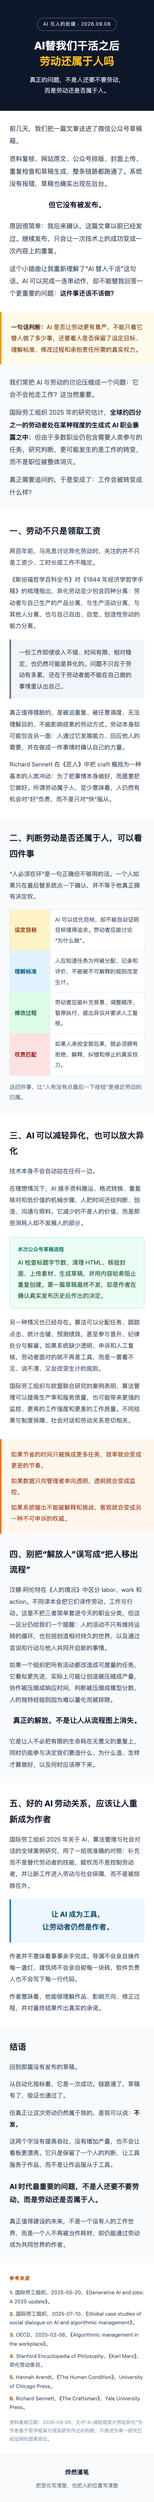
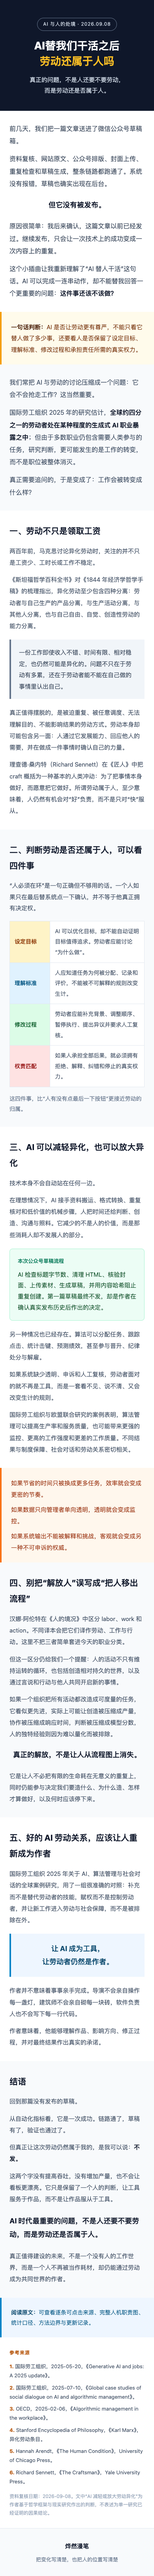
fix: 完善劳动主题文章阅读原文提示

Changed region(s): [[0.0615, 0.0, 0.9231, 0.997], [0.0, 0.8724, 0.0308, 0.9035]]

diff --git a/articles/ai/2026-09-08_ai-labor-belongs-to-us/article-wechat.html b/articles/ai/2026-09-08_ai-labor-belongs-to-us/article-wechat.html
@@ -41,7 +41,7 @@
     <p style="font-size:15px;color:#334155;line-height:1.9;margin:0">一份工作即使收入不错、时间有限、相对稳定，也仍然可能是异化的。问题不只在于劳动有多累，还在于劳动者能不能在自己做的事情里认出自己。</p>
   </section>
   <p style="font-size:15px;color:#475569;line-height:1.95;margin:0 0 14px 0">真正值得摆脱的，是被迫重复、被任意调度、无法理解目的、不能影响结果的劳动方式。劳动本身却可能包含另一面：人通过它发展能力、回应他人的需要，并在做成一件事情时确认自己的力量。</p>
-  <p style="font-size:15px;color:#475569;line-height:1.95;margin:0">Richard Sennett 在《匠人》中把 craft 概括为一种基本的人类冲动：为了把事情本身做好，而愿意把它做好。所谓劳动属于人，至少意味着，人仍然有机会对“好”负责，而不是只对“快”服从。</p>
+  <p style="font-size:15px;color:#475569;line-height:1.95;margin:0">理查德·桑内特（Richard Sennett）在《匠人》中把 craft 概括为一种基本的人类冲动：为了把事情本身做好，而愿意把它做好。所谓劳动属于人，至少意味着，人仍然有机会对“好”负责，而不是只对“快”服从。</p>
 </section>
 
 <section style="padding:32px 24px;background-color:#f8fafc">
@@ -64,7 +64,8 @@
     <p style="font-size:13px;color:#047857;font-weight:700;margin:0 0 8px 0">本次公众号草稿流程</p>
     <p style="font-size:15px;color:#14532d;line-height:1.85;margin:0">AI 检查标题字节数、清理 HTML、核验封面、上传素材、生成草稿，并用内容哈希阻止重复创建。第一篇草稿最终不发，却是作者在确认真实发布历史后作出的决定。</p>
   </section>
-  <p style="font-size:15px;color:#475569;line-height:1.95;margin:0 0 14px 0">另一种情况也已经存在。算法可以分配任务、跟踪点击、统计击键、预测绩效，甚至参与晋升、纪律处分与解雇。如果系统缺少透明、申诉和人工复核，劳动者面对的就不再是工具，而是一套看不见、说不清、又会改变生计的规则。</p>
+  <p style="font-size:15px;color:#475569;line-height:1.95;margin:0 0 14px 0">另一种情况也已经存在。算法可以分配任务、跟踪点击、统计击键、预测绩效，甚至参与晋升、纪律处分与解雇。</p>
+  <p style="font-size:15px;color:#475569;line-height:1.95;margin:0 0 14px 0">如果系统缺少透明、申诉和人工复核，劳动者面对的就不再是工具，而是一套看不见、说不清、又会改变生计的规则。</p>
   <p style="font-size:15px;color:#475569;line-height:1.95;margin:0">国际劳工组织与欧盟联合研究的案例表明，算法管理可以提高生产率和服务质量，也可能带来更强的监控、更高的工作强度和更差的工作质量。不同结果与制度保障、社会对话和劳动关系密切相关。</p>
 </section>
 
@@ -76,7 +77,8 @@
 
 <section style="padding:32px 24px;background-color:#f8fafc">
   <h2 style="font-size:21px;font-weight:750;color:#0f172a;margin:0 0 16px 0">四、别把“解放人”误写成“把人移出流程”</h2>
-  <p style="font-size:15px;color:#475569;line-height:1.95;margin:0 0 14px 0">汉娜·阿伦特在《人的境况》中区分 labor、work 和 action。不同译本会把它们译作劳动、工作与行动。这里不把三者简单套进今天的职业分类，但这一区分仍给我们一个提醒：人的活动不只有维持运转的循环，也包括创造相对持久的世界，以及通过言说和行动与他人共同开启新的事情。</p>
+  <p style="font-size:15px;color:#475569;line-height:1.95;margin:0 0 14px 0">汉娜·阿伦特在《人的境况》中区分 labor、work 和 action。不同译本会把它们译作劳动、工作与行动。这里不把三者简单套进今天的职业分类。</p>
+  <p style="font-size:15px;color:#475569;line-height:1.95;margin:0 0 14px 0">但这一区分仍给我们一个提醒：人的活动不只有维持运转的循环，也包括创造相对持久的世界，以及通过言说和行动与他人共同开启新的事情。</p>
   <p style="font-size:15px;color:#475569;line-height:1.95;margin:0 0 14px 0">如果一个组织把所有活动都改造成可度量的任务，它看似更先进，实际上可能让创造被压缩成产量，协作被压缩成响应时间，判断被压缩成模型分数，人的独特经验则因为难以量化而被排除。</p>
   <p style="font-size:18px;color:#0f172a;font-weight:750;line-height:1.8;margin:22px 0;text-align:center">真正的解放，不是让人从流程图上消失。</p>
   <p style="font-size:15px;color:#475569;line-height:1.95;margin:0">它是让人不必把有限的生命耗在无意义的重复上，同时仍能参与决定我们要造什么、为什么造、怎样才算做好，以及何时应该停下来。</p>
@@ -100,6 +102,10 @@
   <p style="font-size:15px;color:#475569;line-height:1.95;margin:0 0 14px 0">这两个字没有提高吞吐，没有增加产量，也不会让看板更漂亮。它只是保留了一个人的判断，让工具服务于作品，而不是让作品服从于工具。</p>
   <p style="font-size:18px;color:#0f172a;font-weight:750;line-height:1.85;margin:24px 0">AI 时代最重要的问题，不是人还要不要劳动，而是劳动还是否属于人。</p>
   <p style="font-size:15px;color:#475569;line-height:1.95;margin:0">真正值得建设的未来，不是一个没有人的工作世界，而是一个人不再被当作耗材，却仍能通过劳动成为共同世界的作者。</p>
+</section>
+
+<section style="padding:24px;background-color:#eef6ff;border-left:4px solid #0284c7">
+  <p style="font-size:14px;color:#075985;line-height:1.85;margin:0"><strong style="color:#0c4a6e">阅读原文：</strong>可查看逐条可点击来源、完整人机职责图、统计口径、方法边界与更新记录。</p>
 </section>
 
 <section style="padding:28px 24px;background-color:#ffffff">

diff --git a/articles/ai/2026-09-08_ai-labor-belongs-to-us/article-full.html b/articles/ai/2026-09-08_ai-labor-belongs-to-us/article-full.html
@@ -48,7 +48,7 @@
     <div class="quote">一份工作即使收入不错、时间有限、相对稳定，也仍然可能是异化的。问题不只在于劳动有多累，还在于劳动者能不能在自己做的事情里认出自己。</div>
     <p style="margin-top:24px">这也是为什么我不认同“劳动最好全部消失”这种轻率的想象。</p>
     <p>真正值得摆脱的，是被迫重复、被任意调度、无法理解目的、不能影响结果的劳动方式。劳动本身却可能包含另一面：人通过它发展能力、回应他人的需要、参与共同世界，并在做成一件事情时确认自己的力量。</p>
-    <p>Richard Sennett 在《匠人》中把 craft 概括为一种基本的人类冲动：为了把事情本身做好，而愿意把它做好。他谈到的匠人并不只包括传统手艺人，也包括程序员、医生、艺术家、父母和公民。</p>
+    <p>理查德·桑内特（Richard Sennett）在《匠人》中把 craft 概括为一种基本的人类冲动：为了把事情本身做好，而愿意把它做好。他谈到的匠人并不只包括传统手艺人，也包括程序员、医生、艺术家、父母和公民。</p>
     <p>所谓劳动属于人，至少意味着，人仍然有机会对“好”负责，而不是只对“快”服从。</p>
   </section>
 

diff --git a/articles/ai/2026-09-08_ai-labor-belongs-to-us/review-log.md b/articles/ai/2026-09-08_ai-labor-belongs-to-us/review-log.md
@@ -97,3 +97,24 @@
 内容事实未决项：0。格式未决项：0。部署后验证项：1。公众号手机预览项：1。
 
 > 发布门结论：可提交并部署；网站上线验证后可生成公众号草稿，不得自动正式发布。
+
+---
+
+## 平台适配复核与草稿终稿修订（2026-09-09）
+
+### 复核结论
+
+✅ 公众号标题、真实开场、四项权利、哲学表达、移动端兼容和显式来源编号均通过。唯一发布闭环问题是公众号正文未说明“阅读原文”的增量，已修复。
+
+### 修改记录
+
+- [已解决] 在参考来源前新增克制的“阅读原文”提示，明确可查看逐条可点击来源、完整人机职责图、统计口径、方法边界与更新记录。
+- [已解决] 首次出现 Richard Sennett 时补充中文名“理查德·桑内特”，降低阅读摩擦。
+- [已解决] 拆分算法管理与阿伦特段落，改善手机端阅读节奏。
+- [已确认] 390px 视口下 `scrollWidth = clientWidth = 390`，无横向溢出；正文可见“阅读原文”。
+- [已确认] 最终 dry-run 通过：标题 47 字节、正文 11253 字符；3 项草稿脚本单元测试通过。
+- [已确认] 公众号正文仍无脚本、样式块、data URI、正文图片、占位符或禁用布局。
+
+### 状态
+
+发布内容未决项：0。草稿更新后仍需作者在微信后台完成手机预览，正式发布不自动执行。

diff --git a/articles/ai/2026-09-08_ai-labor-belongs-to-us/article-source.md b/articles/ai/2026-09-08_ai-labor-belongs-to-us/article-source.md
@@ -34,7 +34,7 @@
 
 真正值得摆脱的，是被迫重复、被任意调度、无法理解目的、不能影响结果的劳动方式。劳动本身却可能包含另一面：人通过它发展能力、回应他人的需要、参与共同世界，并在做成一件事情时确认自己的力量。
 
-Richard Sennett 在《匠人》中把 craft 概括为一种基本的人类冲动：为了把事情本身做好，而愿意把它做好。这个定义并不只适用于木匠或手艺人。他列举的匠人也包括程序员、医生、艺术家、父母和公民。
+理查德·桑内特（Richard Sennett）在《匠人》中把 craft 概括为一种基本的人类冲动：为了把事情本身做好，而愿意把它做好。这个定义并不只适用于木匠或手艺人。他列举的匠人也包括程序员、医生、艺术家、父母和公民。
 
 所谓劳动属于人，至少意味着，人仍然有机会对“好”负责，而不是只对“快”服从。
 
